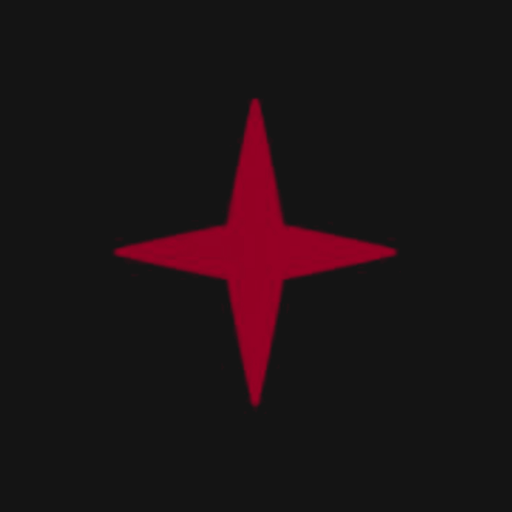
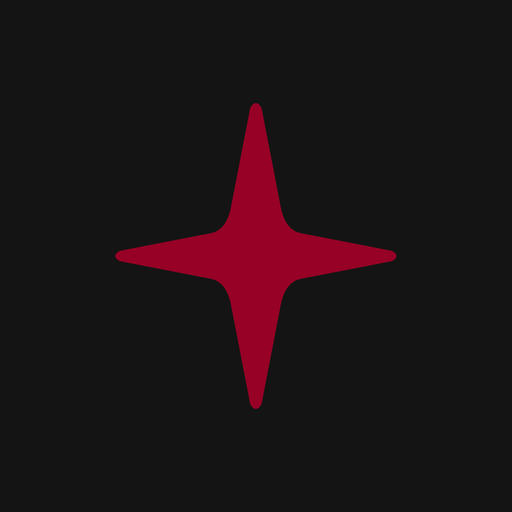
Tutte le stelle con la nuova stella vettoriale pulita
stella.svg (logo, barra, valutazioni, globo, vuoti), stelline del cielo (#star4),
stella nella moneta del Mercato e nel rubino di Stile, icone dell app (PWA e iPhone).

diff --git a/index.html b/index.html
@@ -6,7 +6,7 @@
   <title>NOVAE</title>
   <meta name="description" content="NOVAE, il social su invito dove gli artisti condividono le loro opere.">
   <meta name="theme-color" content="#141414">
-  <link rel="icon" type="image/svg+xml" href="assets/svg/stella.svg">
+  <link rel="icon" type="image/svg+xml" href="assets/svg/stella.svg?v=2">
   <link rel="icon" type="image/png" href="assets/app/icon-192.png">
   <link rel="apple-touch-icon" href="assets/app/apple-touch-icon.png">
   <link rel="manifest" href="manifest.webmanifest">
@@ -24,7 +24,7 @@
   <script src="https://cdn.jsdelivr.net/npm/topojson-client@3.1.0/dist/topojson-client.min.js" defer></script>
   <script src="https://cdn.jsdelivr.net/npm/qrcode-generator@1.4.4/qrcode.min.js" defer></script>
   <script src="i18n.js?v=6" defer></script>
-  <script src="app.js?v=85" defer></script>
+  <script src="app.js?v=87" defer></script>
 </head>
 <body data-screen="invito">
 
@@ -32,7 +32,7 @@
   <svg width="0" height="0" style="position:absolute" aria-hidden="true">
     <defs>
       <symbol id="star4" viewBox="-50 -50 100 100">
-        <path d="M0-50C3-14 8-8 44 0 8 8 3 14 0 50-3 14-8 8-44 0-8-8-3-14 0-50Z"/>
+        <path transform="scale(.1475) translate(-500 -500)" d="M446.6 394.4L487.9 181.6Q500.0 161.0 512.1 181.6L553.4 394.4Q563.1 444.4 597.0 451.0L597.0 451.0L792.4 488.9Q812.0 500.0 792.4 511.1L597.0 549.0Q563.1 555.6 553.4 605.6L553.4 605.6L512.1 818.5Q500.0 839.0 487.9 818.5L446.6 605.6Q436.9 555.6 403.0 549.0L403.0 549.0L207.6 511.1Q188.0 500.0 207.6 488.9L403.0 451.0Q436.9 444.4 446.6 394.4Z"/>
       </symbol>
       <filter id="chalk" x="-5%" y="-5%" width="110%" height="110%">
         <feTurbulence type="fractalNoise" baseFrequency="0.04" numOctaves="2" seed="7"/>
@@ -48,7 +48,7 @@
     <!-- 1. Invito -->
     <section class="screen" data-screen="invito" aria-label="Invito">
       <div class="gate">
-        <img class="gate-star" src="assets/svg/stella.svg" alt="" aria-hidden="true" draggable="false">
+        <img class="gate-star" src="assets/svg/stella.svg?v=2" alt="" aria-hidden="true" draggable="false">
         <p class="sketch-box gate-msg hand">Ti serve un invito per entrare</p>
         <div class="sketch-box gate-qr">
           <canvas id="qr" width="264" height="264" aria-label="Codice QR di invito"></canvas>
@@ -73,7 +73,7 @@
 
     <!-- 3. Scopri (feed) -->
     <section class="screen" data-screen="scopri" aria-label="Scopri">
-      <div class="ptr" id="ptr" aria-hidden="true"><img src="assets/svg/stella.svg" alt="" draggable="false"></div>
+      <div class="ptr" id="ptr" aria-hidden="true"><img src="assets/svg/stella.svg?v=2" alt="" draggable="false"></div>
       <div class="feed" id="feed"></div>
     </section>
 
@@ -101,7 +101,7 @@
     <!-- 6. Stile: coming soon -->
     <section class="screen" data-screen="stile" aria-label="Stile">
       <div class="soon">
-        <img class="crop soon-gem i-stile" src="assets/svg/stile.svg" alt="" aria-hidden="true" draggable="false">
+        <img class="crop soon-gem i-stile" src="assets/svg/stile.svg?v=2" alt="" aria-hidden="true" draggable="false">
         <h1>Stile</h1>
         <p class="soon-tag">Coming soon</p>
         <p class="soon-text">Una nuova sezione di NOVAE è in arrivo.</p>
@@ -173,7 +173,7 @@
     <div class="dock-bump"></div>
     <button class="dock-side dock-search" data-act="search" aria-label="Cerca"><i class="ph-light ph-magnifying-glass"></i></button>
     <button class="dock-star" id="dockStar" data-act="arc" aria-label="Apri menu rapido" aria-expanded="false">
-      <img src="assets/svg/stella.svg" alt="" aria-hidden="true" draggable="false">
+      <img src="assets/svg/stella.svg?v=2" alt="" aria-hidden="true" draggable="false">
     </button>
     <button class="dock-side dock-menu" data-act="bars" aria-label="Menu"><i class="ph-light ph-list"></i></button>
     <div class="arc" id="arc"></div>

diff --git a/app.js b/app.js
@@ -51,9 +51,9 @@
   const img = (src, alt = '', cls = '') => `<img class="fade ${cls}" src="${src}" alt="${alt}" loading="lazy" decoding="async">`;
 
   /* ---------------- Icons: the hand-drawn sketches in assets/icone/, traced to SVG in assets/svg/ ---------------- */
-  const crop = (name, extra = '') => `<img class="crop ${extra}" src="assets/svg/${name}.svg${name === 'wordmark' ? '?v=2' : ''}" alt="" aria-hidden="true" draggable="false"${name === 'wordmark' ? ' style="--ar:.26"' : ''}>`;
+  const crop = (name, extra = '') => `<img class="crop ${extra}" src="assets/svg/${name}.svg${name === 'wordmark' || name === 'mercato' || name === 'stile' ? '?v=2' : ''}" alt="" aria-hidden="true" draggable="false"${name === 'wordmark' ? ' style="--ar:.26"' : ''}>`;
   // The red star is the NOVAE logo itself
-  const STAR_SRC = 'assets/svg/stella.svg';
+  const STAR_SRC = 'assets/svg/stella.svg?v=2';
   const starSvg = (cls = '') => `<img class="star-svg ${cls}" src="${STAR_SRC}" alt="" aria-hidden="true" draggable="false">`;
   const icon = key => {
     if (key === 'novae') return starSvg();

diff --git a/sw.js b/sw.js
@@ -1,6 +1,6 @@
 // NOVAE service worker: network first, so every deploy shows up right away; the cache is only the offline fallback.
 // ponytail: the cache grows with every image seen (picsum); add a size cap or skip third-party images if it gets heavy.
-const CACHE = 'novae-v26';
+const CACHE = 'novae-v28';
 const SHELL = ['./', 'index.html', 'styles.css', 'app.js', 'i18n.js', 'manifest.webmanifest', 'assets/svg/stella.svg'];
 
 self.addEventListener('install', e => {
